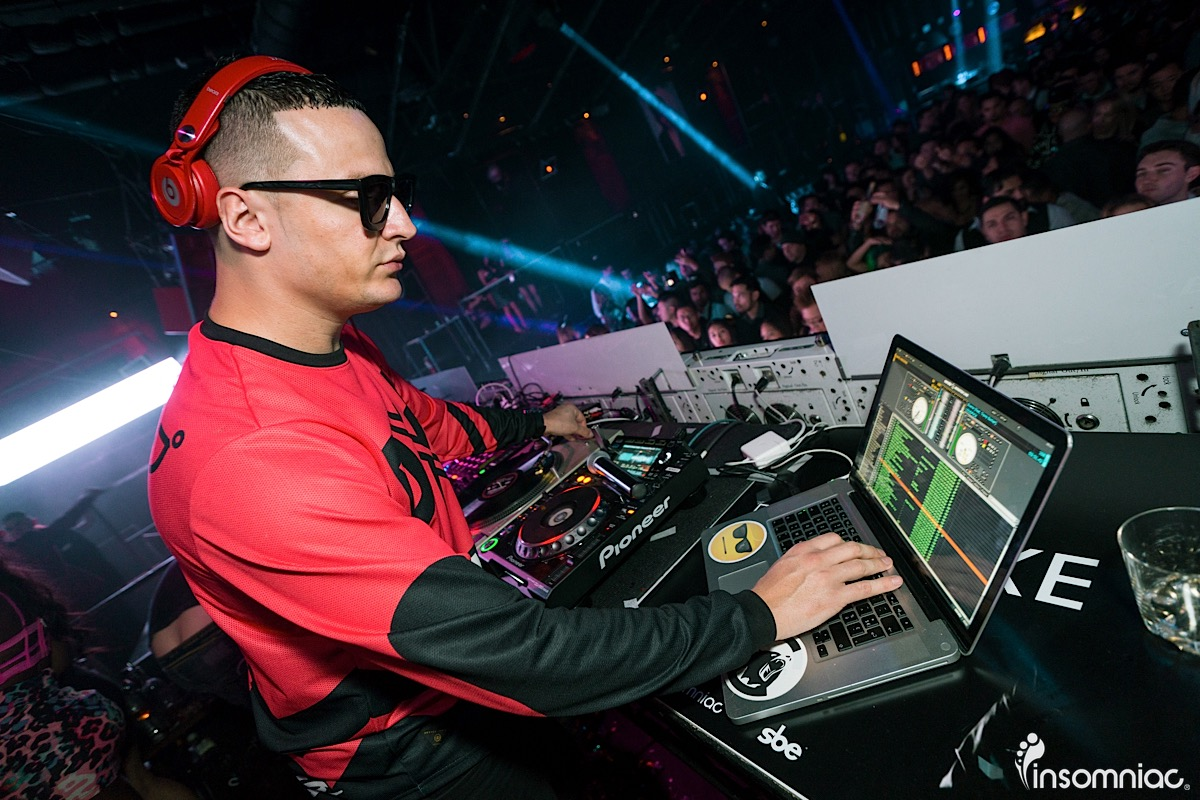
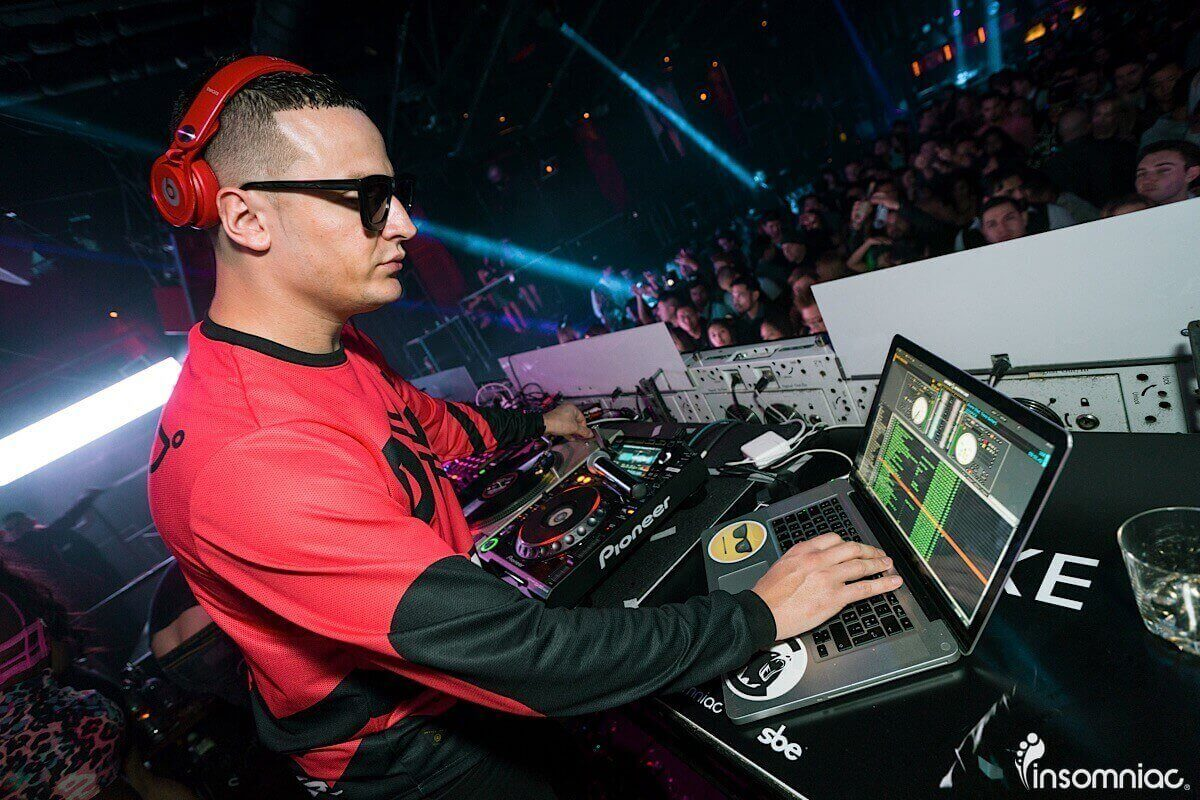
optimizando imagenes

diff --git a/index.html b/index.html
@@ -6,8 +6,6 @@
     <meta name="viewport" content="width=device-width, initial-scale=1.0">
     <title>Kanoka Palooza</title>
     <link rel="stylesheet" href="css/foundation-flex.css">
-    <link href="https://fonts.googleapis.com/css?family=Bree+Serif" rel="stylesheet">
-    <link href="https://fonts.googleapis.com/css?family=Open+Sans" rel="stylesheet">
     <link rel="stylesheet" href="css/app.css">
     <link rel="stylesheet" type="text/css" href="icons/foundation-icons.css">
   </head>
@@ -328,5 +326,20 @@
     <script src="js/vendor/what-input.js"></script>
     <script src="js/vendor/foundation.js"></script>
     <script src="js/app.js"></script>
-  </body>
+    <script src="https://ajax.googleapis.com/ajax/libs/webfont/1.6.16/webfont.js"></script>
+
+    <script>
+
+    WebFont.load({
+
+      google: {
+
+        families: ['Open Sans', 'Bree Serif']
+
+      }
+
+    });
+
+  </script>
+</body>
 </html>
